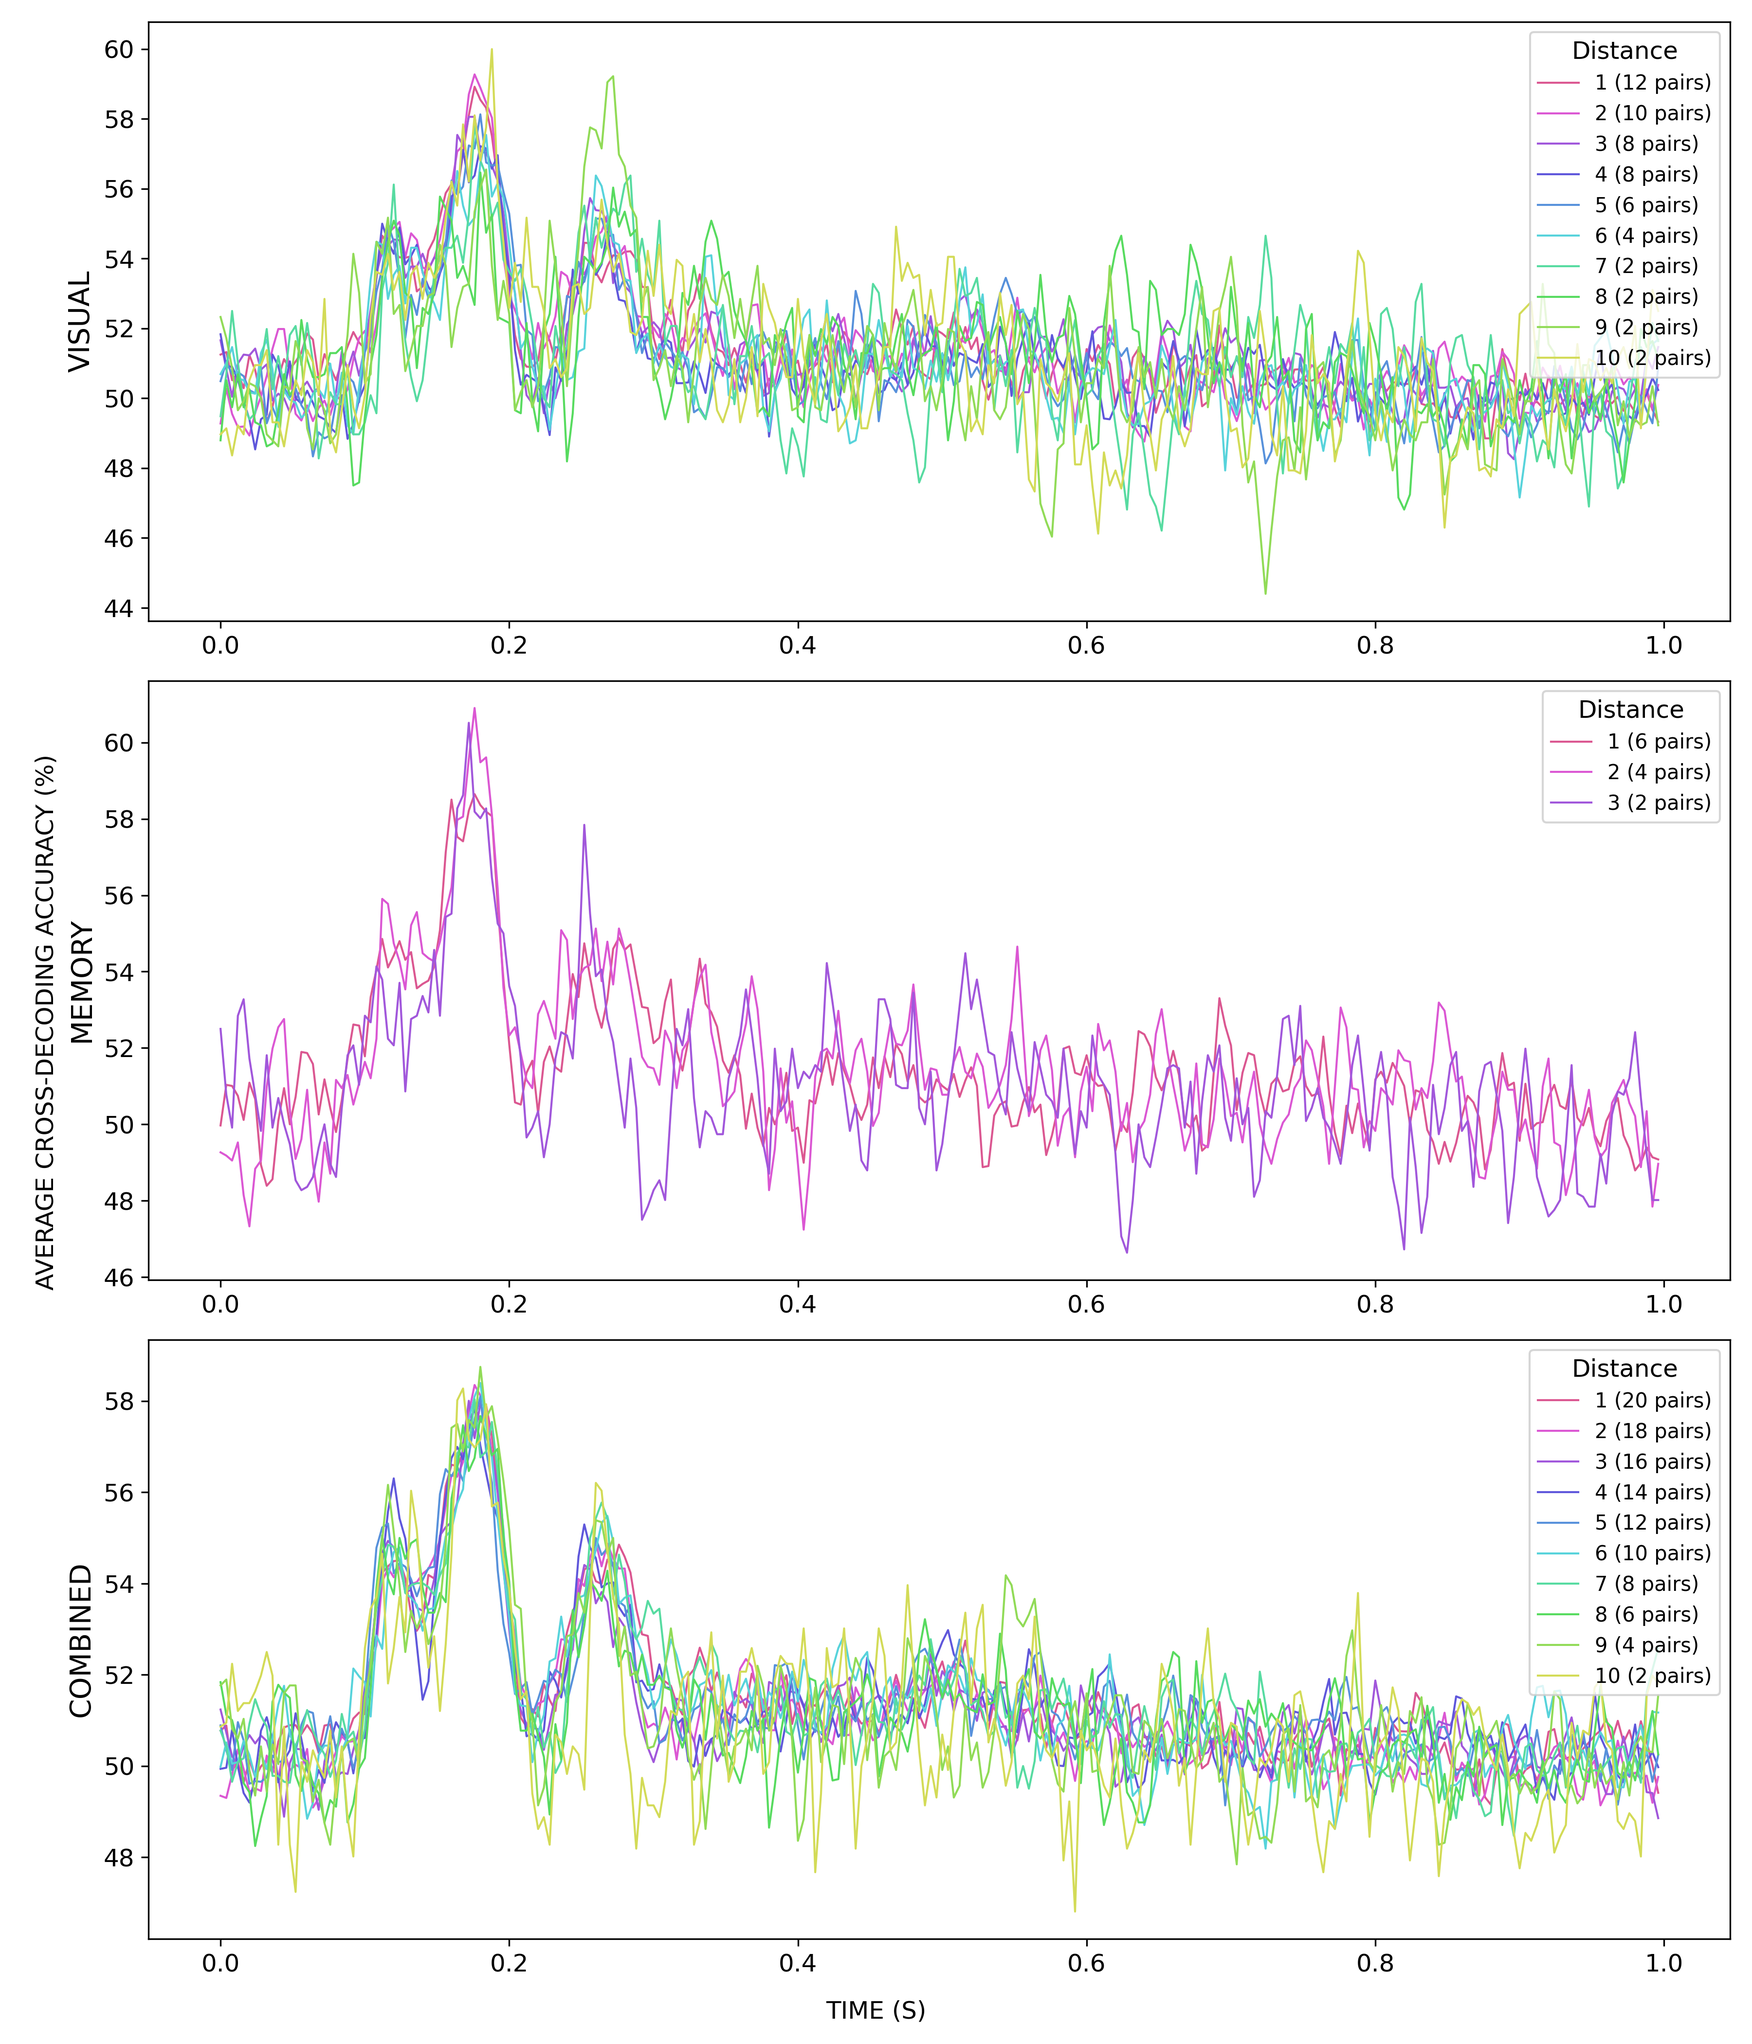
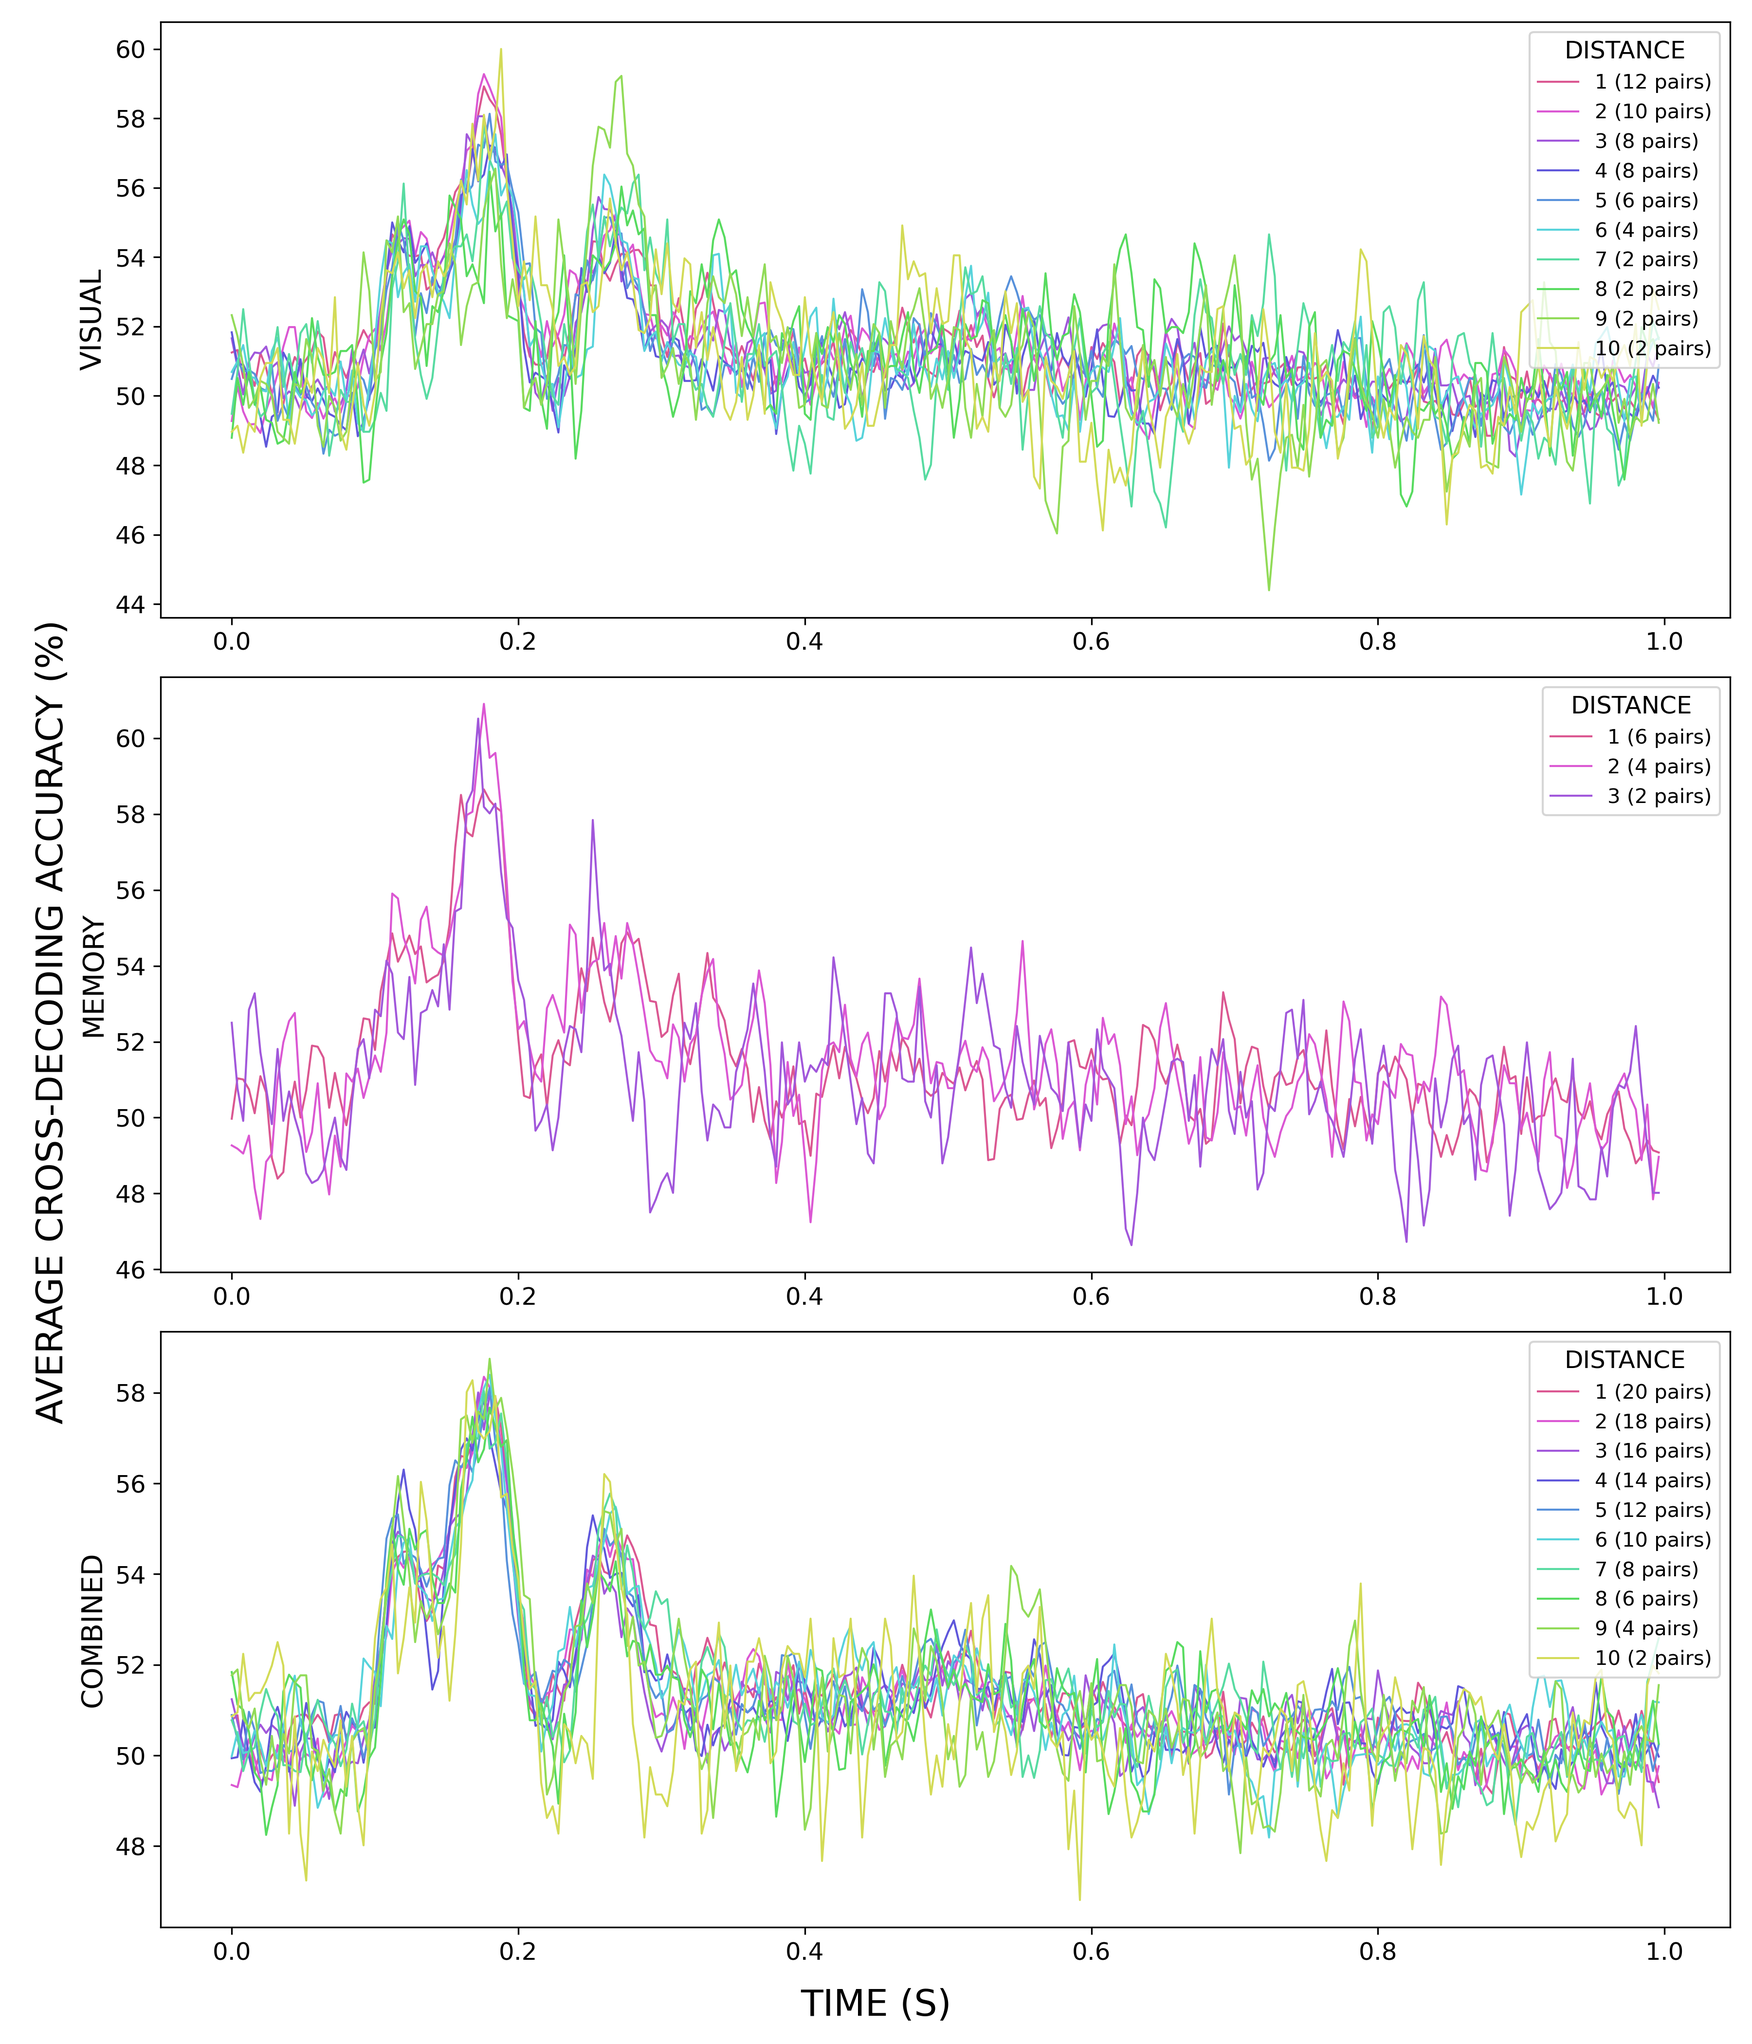
updates

diff --git a/decoding/cross_decoding/plot_results.py b/decoding/cross_decoding/plot_results.py
@@ -39,12 +39,11 @@ def determine_colour(i, j):
 
     return colors[abs(i-j)]
 
-def add_diagonal_line(ax):
+def add_diagonal_line(ax, colour = 'red'):
     """
     Adds a diagonal line to a plot
     """
-    ax.plot([0, 1], [0, 1], transform=ax.transAxes, color = 'red', linestyle = '--', alpha = 0.5, linewidth = 1)
-
+    ax.plot([0, 1], [0, 1], transform=ax.transAxes, color = colour, linestyle = '--', alpha = 0.5, linewidth = 1)
 
 
 def change_spine_colour(ax, colour):
@@ -102,8 +101,8 @@ def plot_sig_clusters(ax, array_name):
     return ax
 
 
-def add_dif_label(ax, label):
-    ax.text(-0.08, 1.1, label, transform=ax.transAxes, fontsize=20, fontweight='bold', va='top', ha='right', color = 'red', alpha = 0.7)
+def add_dif_label(ax, label, colour = 'red'):
+    ax.text(-0.08, 1.1, label, transform=ax.transAxes, fontsize=20, fontweight='bold', va='top', ha='right', color = colour, alpha = 0.7)
 
 def plot_train_test_condition(acc, parc, vmin = 40, vmax = 60, diff_colour = 'darkblue'):
     fig, axs = plt.subplots(4, 3, figsize = (12, 12*4/3), dpi = 300)
@@ -139,45 +138,44 @@ def plot_train_test_condition(acc, parc, vmin = 40, vmax = 60, diff_colour = 'da
     axs[2,1].text(-0.1, 1.1, 'D', transform=axs[2,1].transAxes, fontsize=20, fontweight='bold', va='top', ha='right')
 
     ### DIFFERENCE PLOTS ###
+    colour_map_diff = "PuOr_r" # sns.diverging_palette(220, 20, s = 70, l = 70, as_cmap=True)
     # difference between test and train condition (vis - mem)
-    axs[1, 2] = plot.plot_tgm_ax(np.array(vis_vis - mem_mem), ax=axs[1, 2], vmin=vmin_diff, vmax=vmax_diff)
+    axs[1, 2] = plot.plot_tgm_ax(np.array(vis_vis - mem_mem), ax=axs[1, 2], vmin=vmin_diff, vmax=vmax_diff, cmap = colour_map_diff)
     plot_sig_clusters(axs[1, 2], "visvis_memmem")
-    add_dif_label(axs[1, 2], 'A-B')
+    add_dif_label(axs[1, 2], 'A-B', colour = diff_colour)
 
     # difference between test and train condition
-    axs[2, 2] = plot.plot_tgm_ax(vis_mem - mem_vis, ax=axs[2, 2], vmin=vmin_diff, vmax=vmax_diff)
+    axs[2, 2] = plot.plot_tgm_ax(vis_mem - mem_vis, ax=axs[2, 2], vmin=vmin_diff, vmax=vmax_diff, cmap = colour_map_diff)
     axs[2, 2]= plot_sig_clusters(axs[2, 2], "vismem_memvis")
-    add_dif_label(axs[2, 2], 'C-D')
+    add_dif_label(axs[2, 2], 'C-D', colour = diff_colour)
 
     # difference between vis_vis and vis_mem
-    axs[3, 0] = plot.plot_tgm_ax(vis_vis - vis_mem, ax=axs[3, 0], vmin=vmin_diff, vmax=vmax_diff)
+    axs[3, 0] = plot.plot_tgm_ax(vis_vis - vis_mem, ax=axs[3, 0], vmin=vmin_diff, vmax=vmax_diff, cmap = colour_map_diff)
     plot_sig_clusters(axs[3, 0], "visvis_vismem")
-    add_dif_label(axs[3, 0], 'A-C')
-    
+    add_dif_label(axs[3, 0], 'A-C', colour = diff_colour)
 
     # difference between mem_mem and mem_vis
-    axs[3, 1] = plot.plot_tgm_ax(mem_mem - mem_vis, ax=axs[3, 1], vmin=vmin_diff, vmax=vmax_diff)
+    axs[3, 1] = plot.plot_tgm_ax(mem_mem - mem_vis, ax=axs[3, 1], vmin=vmin_diff, vmax=vmax_diff, cmap = colour_map_diff)
     axs[3, 1] = plot_sig_clusters(axs[3, 1], "memmem_memvis")
-    add_dif_label(axs[3, 1], 'B-D')
+    add_dif_label(axs[3, 1], 'B-D', colour = diff_colour)
 
     # difference between vis_vis and mem_vis
-    axs[3, 2] = plot.plot_tgm_ax(vis_vis - mem_vis, ax=axs[3, 2], vmin=vmin_diff, vmax=vmax_diff)
+    axs[3, 2] = plot.plot_tgm_ax(vis_vis - mem_vis, ax=axs[3, 2], vmin=vmin_diff, vmax=vmax_diff, cmap = colour_map_diff)
     axs[3, 2] = plot_sig_clusters(axs[3, 2], "visvis_memvis")
-    add_dif_label(axs[3, 2], 'A-D')
+    add_dif_label(axs[3, 2], 'A-D', colour = diff_colour)
 
     # difference between vis_mem and mem_mem
-    axs[0, 2] = plot.plot_tgm_ax(vis_mem - mem_mem, ax=axs[0, 2], vmin=vmin_diff, vmax=vmax_diff)
+    axs[0, 2] = plot.plot_tgm_ax(vis_mem - mem_mem, ax=axs[0, 2], vmin=vmin_diff, vmax=vmax_diff, cmap = colour_map_diff)
     axs[0, 2] =plot_sig_clusters(axs[0, 2], "vismem_memmem")
-    add_dif_label(axs[0, 2], 'C-B')
+    add_dif_label(axs[0, 2], 'C-B', colour = diff_colour)
 
 
     for ax in axs[[2, 3, 3, 3, 1, 3, 0], [2, 2, 0, 1, 2, 2, 2]].flatten(): # difference plots
         x_axis_seconds(ax)
         change_spine_colour(ax, diff_colour)
-        add_diagonal_line(ax)
+        add_diagonal_line(ax, colour = diff_colour)
 
     # plot colourbars in the first two columns of the first row
-
     colour_loc = [axs[1, 0].images[0], axs[1, 2].images[0]]
     labels = ['ACCURACY (%)', 'DIFFERENCE (%)']
     for i, ax in enumerate(axs[0, :2]):
@@ -189,6 +187,9 @@ def plot_train_test_condition(acc, parc, vmin = 40, vmax = 60, diff_colour = 'da
 
         if i == 1:
             change_spine_colour(cb.ax, diff_colour)
+
+    axs[2,0].set_ylabel('TRAIN TIME (s)', fontsize=14)
+    axs[-1,1].set_xlabel('TEST TIME (s)', fontsize=14)
 
     plt.tight_layout()
     plt.savefig(os.path.join('plots', f'cross_decoding_{parc}_average_vis_mem.png'))
@@ -218,8 +219,8 @@ def plot_diagonals(acc_dict, title = 'diagonals', save_path = None):
     for key, value in dict_diag.items():
         ax.plot(value, label=key)
 
-    ax.set_xlabel('time (ms)')
-    ax.set_ylabel('accuracy')
+    ax.set_xlabel('time (ms)'.upper())
+    ax.set_ylabel('accuracy'.upper())
     ax.set_title(title)
     ax.legend()
     if save_path:
@@ -232,7 +233,6 @@ def cross_diags_average_sesh(accuracies, SE=False, save_path=None, title=None):
     # multiply by 100 to get percentages
     diagonals = diagonals * 100
 
-    
 
     order = [0, 1, 2, 3, 7, 8, 9, 10, 4, 5, 6]
 
@@ -290,7 +290,7 @@ def cross_diags_average_sesh(accuracies, SE=False, save_path=None, title=None):
                     ax[ax_ind].fill_between(np.arange(0, 250), (tmp_acc - tmp_std), (tmp_acc + tmp_std), alpha = 0.1, color =colour)
                 
             # plot legend
-            ax[ax_ind].legend(loc = 'upper right', title = "Distance")
+            ax[ax_ind].legend(loc = 'upper right', title = "Distance".upper())
             ax[ax_ind].set_ylabel(['Visual', 'Memory', 'Combined'][ax_ind].upper())
                 
             # set x axis to seconds
@@ -331,11 +331,11 @@ def main_plot_generator():
         accuracies_cross[parc] = acc1
 
         # plot average over all conditions and all cross-session pairs
-        plt = plot.plot_tgm_fig(np.nanmean(acc1, axis=(0, 1)), vmin=40, vmax=60, chance_level=chance_level(588*11, alpha = alpha, p = 0.5))
+        plt = plot.plot_tgm_fig(np.nanmean(acc1, axis=(0, 1)), vmin=40, vmax=60, chance_level=chance_level(588*11, alpha = alpha, p = 0.5), )
         plt.savefig(os.path.join('plots', f'cross_decoding_{parc}_average.png'))
 
         # plot averaged according to conditions and using cross-session pairs
-        plot_train_test_condition(acc1, parc, diff_colour='red')
+        plot_train_test_condition(acc1, parc, diff_colour='darkblue')
 
 
     # Diagonals of the parcellations together

diff --git a/decoding/cross_bins/dist_acc_corr.py b/decoding/cross_bins/dist_acc_corr.py
@@ -93,19 +93,7 @@ def plot_corr(ax, corr, pval):
     ax.set_xlim([0, 250])
 
 
-def plot_corr_hist(acc, save_path = None):
-           
-    # only memory
-    mem_indices = [4, 5, 6, 7]
-    mem_acc = acc[mem_indices, :, :, :][:, mem_indices, :, :]
-
-    # only visual
-    vis_indices = [0, 1, 2, 3, 8, 9, 10]
-    vis_acc = acc[vis_indices, :, :, :][:, vis_indices, :, :]
-
-    # order of sessions
-    order = [0, 1, 2, 3, 7, 8, 9, 10, 4, 5, 6] 
-
+def plot_corr_hist(vis_acc, mem_acc, all_acc, save_path = None):
     # set up figure
     gs_kw = dict(width_ratios=[1, 0.4], height_ratios=[1, 1, 1], wspace=0.01, hspace=0.3)
     fig, axes = plt.subplots(3, 2, figsize=(10, 8), dpi=300, gridspec_kw=gs_kw, sharey=True)
@@ -114,14 +102,11 @@ def plot_corr_hist(acc, save_path = None):
 
     bins = np.linspace(bin_range[0], bin_range[1], 40)
 
-    for i, (acc, inds) in enumerate(zip([vis_acc, mem_acc, acc], [vis_indices, mem_indices, None])):
+    for i, acc in enumerate([vis_acc, mem_acc, acc]):
         dist = get_distance_matrix(order)
         ax_hist = axes[i, 1]
         ax_corr = axes[i, 0]
 
-        # use indices for visual and memory, not for combined
-        if inds is not None:
-            dist = dist[inds, :][:, inds]
 
         # get x and y
         X, y = prep_x_y(acc, dist)
@@ -172,11 +157,14 @@ def main():
     path = Path(__file__)
 
     # load accuracies
-    acc = np.load(path.parents[0] / "accuracies" / f"LDA_auto_10.npy", allow_pickle=True)
+    acc_all = np.load(path.parents[0] / "accuracies" / f"LDA_auto_10_all.npy", allow_pickle=True)
+    acc_vis = np.load(path.parents[0] / "accuracies" / f"LDA_auto_10_visual.npy", allow_pickle=True)
+    acc_mem = np.load(path.parents[0] / "accuracies" / f"LDA_auto_10_memory.npy", allow_pickle=True)
+    
     plot_path = path.parents[0] / "plots" 
 
     # plot
-    plot_corr_hist(acc, save_path=plot_path / "corr_acc_dist.png")
+    plot_corr_hist(vacc_vis, acc_mem, acc_all, save_path=plot_path / "corr_acc_dist.png")
 
         
 

diff --git a/utils/analysis/plot.py b/utils/analysis/plot.py
@@ -18,7 +18,7 @@ plt.rcParams['figure.titlesize'] = 14
 plt.rcParams['figure.dpi'] = 300
 
 
-def plot_tgm_ax(X, ax, vmin = 30, vmax = 70, chance_level = None, colour_bar = False, title = None, title_fontsize = 14):
+def plot_tgm_ax(X, ax, vmin = 30, vmax = 70, chance_level = None, colour_bar = False, title = None, title_fontsize = 14, cmap = 'RdBu_r'):
     """
     Plots a time x time generalization matrix on an axis object
 
@@ -41,7 +41,7 @@ def plot_tgm_ax(X, ax, vmin = 30, vmax = 70, chance_level = None, colour_bar = F
     if not X.shape[0] == X.shape[1]:
         raise ValueError('X must be square')
 
-    im = ax.imshow(X*100, vmin = vmin, vmax = vmax, origin = 'lower')
+    im = ax.imshow(X*100, vmin = vmin, vmax = vmax, origin = 'lower', cmap = cmap)
     
     if chance_level is not None:
         ax.contour(X*100, levels=[chance_level*100], colors='gray', alpha = 0.5, linewidths=0.5)
@@ -60,7 +60,7 @@ def plot_tgm_ax(X, ax, vmin = 30, vmax = 70, chance_level = None, colour_bar = F
 
 
 
-def plot_tgm_fig(X, vmin = 30, vmax = 70, savepath = None, chance_level = None):
+def plot_tgm_fig(X, vmin = 30, vmax = 70, savepath = None, chance_level = None, title = None):
     if not X.shape == (250, 250):
         raise ValueError('X must be 250, 250')
 
@@ -75,11 +75,13 @@ def plot_tgm_fig(X, vmin = 30, vmax = 70, savepath = None, chance_level = None):
     ax.set_xticks(np.arange(0, 251, step=50), [0. , 0.2, 0.4, 0.6, 0.8, 1. ])
 
     cb = plt.colorbar(im, ax = ax, location = 'top', shrink = 0.5)
-    cb.set_label(label = 'Accuracy (%)')
+    cb.set_label(label = 'Accuracy (%)'.upper())
     
+    if title:
+        ax.set_title(title)
 
-    fig.supxlabel('Time (s)')
-    fig.supylabel('Time (s)')
+    fig.supxlabel('TIME (s)')
+    fig.supylabel('TIME (s)')
 
     plt.tight_layout()
 

diff --git a/decoding/cross_bins/cross_bin_decoding.py b/decoding/cross_bins/cross_bin_decoding.py
@@ -13,7 +13,7 @@ import multiprocessing as mp
 import argparse
 from functools import partial
 from pathlib import Path
-
+from p_tqdm import p_imap
 # local imports
 import sys
 import pathlib
@@ -113,12 +113,11 @@ def get_accuracy_session(Xs:list, ys:list, decoder:Decoder, n_jobs:int=1):
     multi_parse = partial(get_accuracy, Xs, ys, decoder)
 
     # multiprocessing
-    with mp.Pool(n_jobs) as p:
-        for train_session, test_session, accuracy in p.map(multi_parse, decoding_inputs):
-            accuracies[train_session, test_session, :, :] = accuracy
-        
-    p.close()
-    p.join()
+    iterator = p_imap(multi_parse, decoding_inputs, num_cpus=n_jobs)
+
+    for train_session, test_session, accuracy in iterator:
+        accuracies[train_session, test_session, :, :] = accuracy
+
 
     return accuracies
 
@@ -136,6 +135,8 @@ def main():
         sessions = sessions[7:]
     elif args.data_subset == 'visual':
         sessions = sessions[:7]
+    else: 
+        raise ValueError(f'Invalid data subset: {args.data_subset}. Can be either all, memory or visual.')
     
     # get triggers for equal number of trials per condition (27 animate and 27 inanimate)
     triggers = get_triggers_equal()
@@ -162,7 +163,7 @@ def main():
     accuracies = get_accuracy_session(Xs, ys, decoder, n_jobs=args.n_jobs)
 
     # save accuracies
-    out_path = path.parent / "accuracies_within" / f"{args.model_type}_{args.alpha}_{args.ncv}_{args.data_subset}.npy"
+    out_path = path.parent / "accuracies" / f"{args.model_type}_{args.alpha}_{args.ncv}_{args.data_subset}.npy"
         
     # ensure accuracy directory exists
     if not out_path.parent.exists():

diff --git a/decoding/cross_decoding/dist_acc_corr.py b/decoding/cross_decoding/dist_acc_corr.py
@@ -120,8 +120,6 @@ def plot_corr_hist(acc, save_path = None):
     gs_kw = dict(width_ratios=[1, 0.4, 1, 0.4], height_ratios=[1, 1, 1], wspace=0.01, hspace=0.3)
     fig, axes = plt.subplots(3, 4, figsize=(12, 8), dpi=300, gridspec_kw=gs_kw, sharey=True)
 
-
-
     bin_range = (-0.75, 0.75)
 
     bins = np.linspace(bin_range[0], bin_range[1], 40)
@@ -182,11 +180,6 @@ def plot_corr_hist(acc, save_path = None):
     axes[0, 0].set_title("Days".upper())
     axes[0, 2].set_title("Sessions".upper())
 
-
-
-    # first row x label
-    #axes[0, 0:2].set_title("Days")
-    #axes[0, 2:4].set_title("Sessions")
 
     if save_path is not None:
         plt.savefig(save_path )
